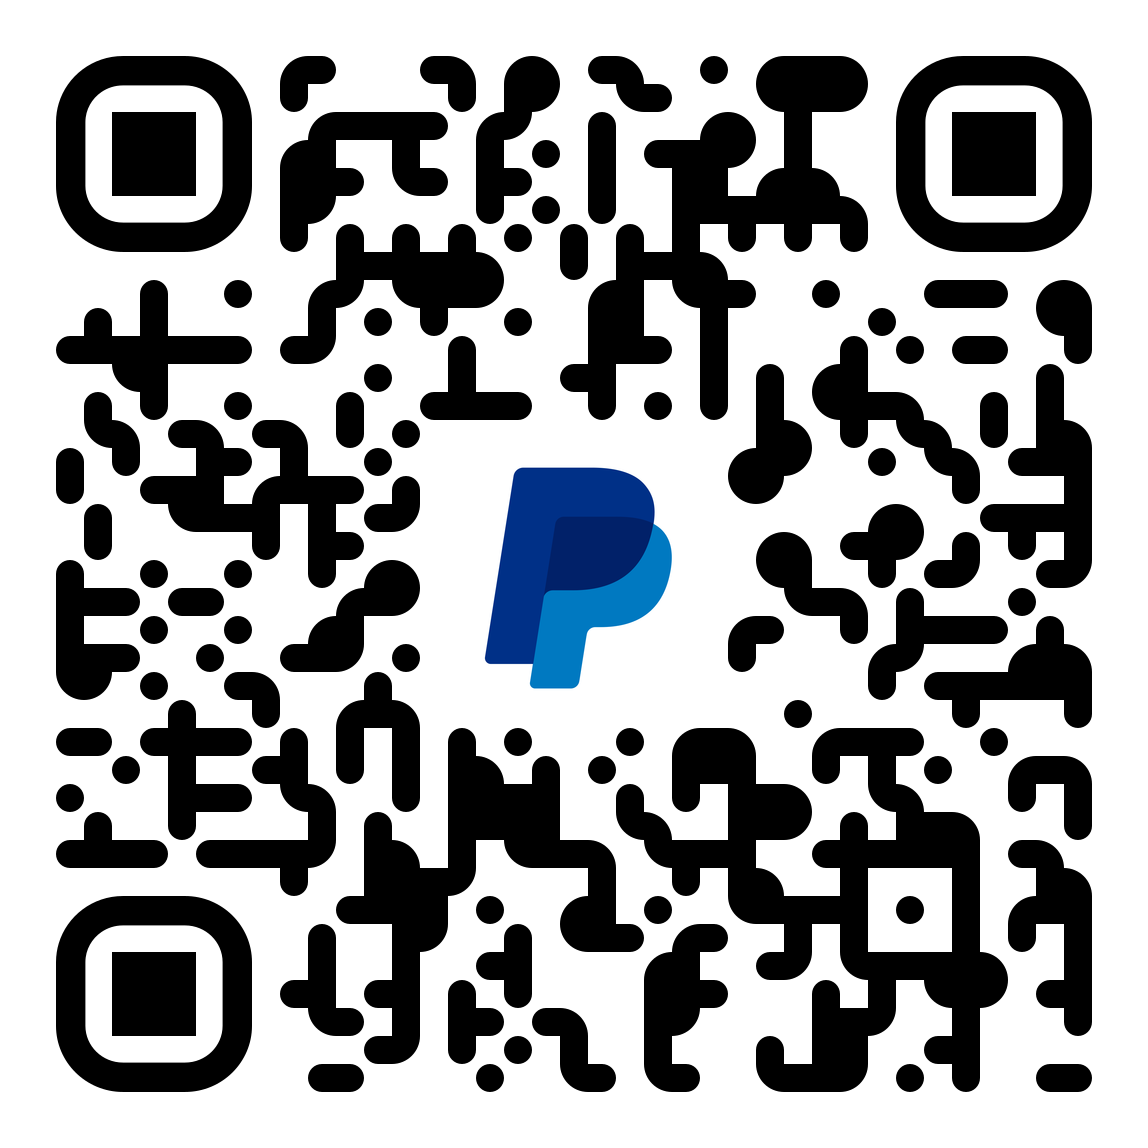
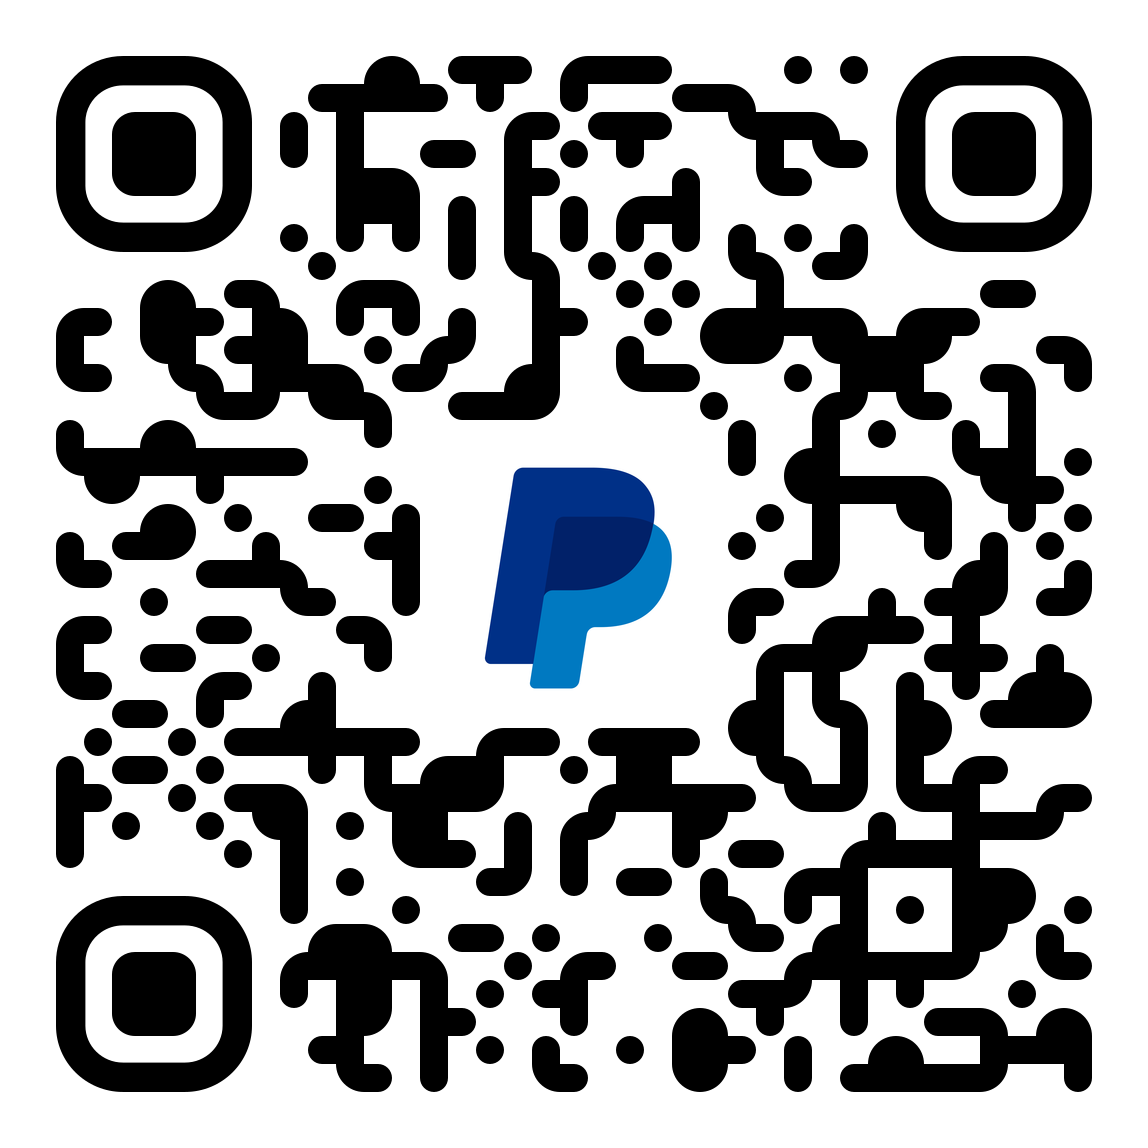
.

diff --git a/donate.html b/donate.html
@@ -98,7 +98,7 @@ body {
         <img src="graphics/paypal.png" alt="paypal" style="width:100%">
         <div class="caption center text-center">
           <!--<p><a href="https://www.paypal.com/pools/c/8IlWi9KDAh">Paypal</a></p>-->
-          <p><a href="https://www.paypal.com/pools/c/8JethmLOM0">www.paypal.com/pools/c/8JethmLOM0</a></p>
+          <p><a href="https://www.paypal.com/pools/c/8L9WRcELA9">www.paypal.com/pools/c/8L9WRcELA9</a></p>
         </div>
     </div>
   </div>
